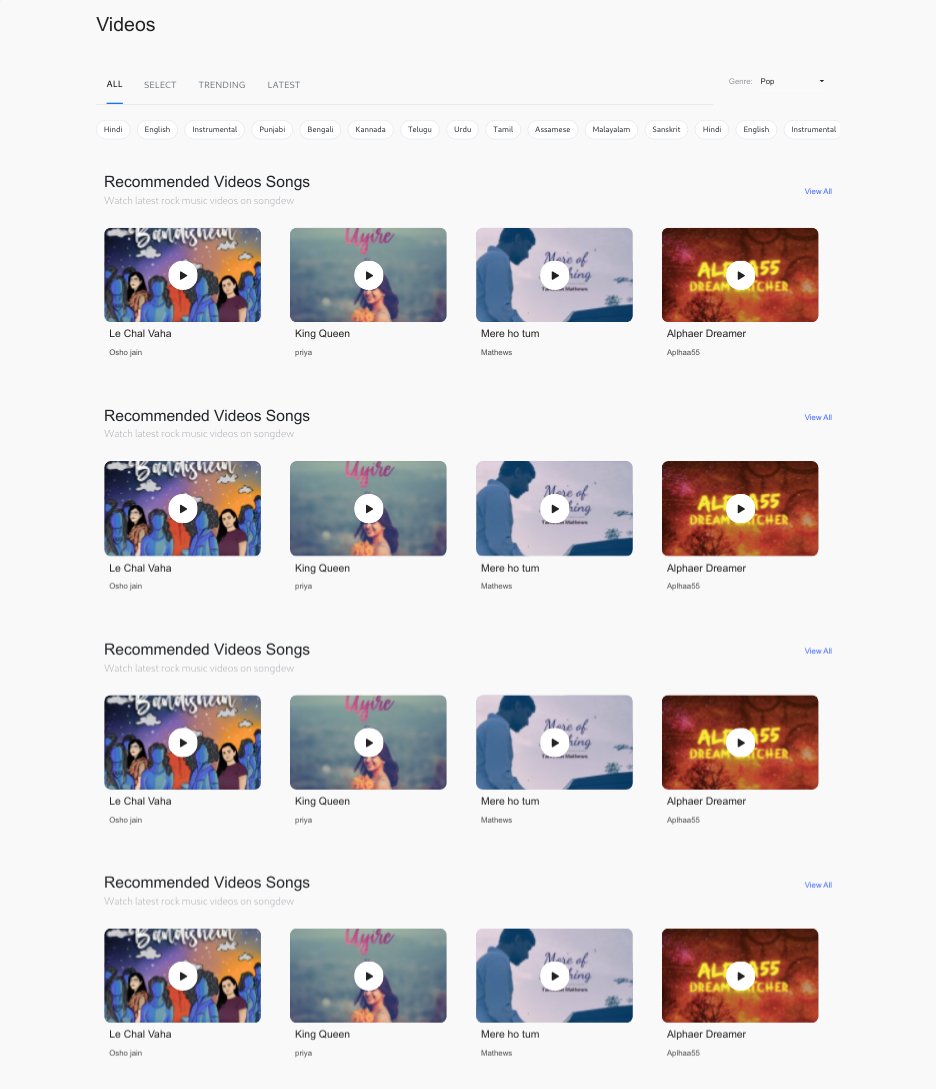
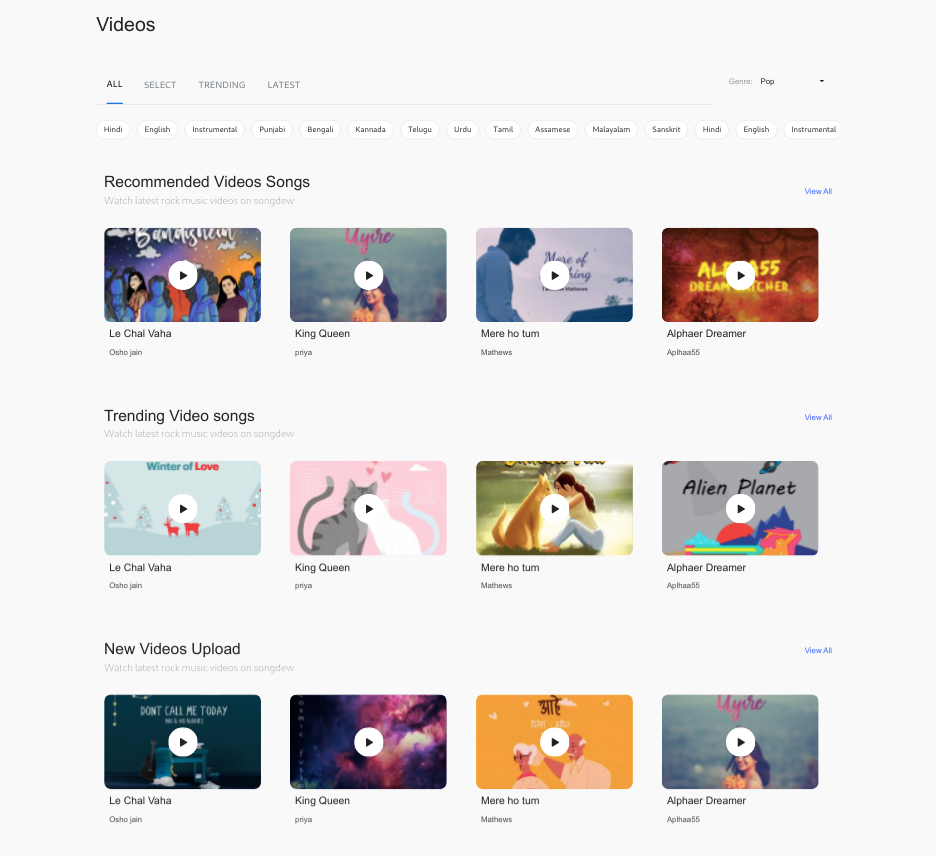
images

diff --git a/Task-2/index.html b/Task-2/index.html
@@ -211,7 +211,7 @@
 
           <div class="row mb-lg-4 mb-md-3">
             <div class="col-8 col-xs-12">
-              <h4 class="block-title mb-0 mt-4">Recommended Videos Songs</h4>
+              <h4 class="block-title mb-0 mt-4">Trending Video songs</h4>
               <h6 class="block-subtitle">Watch latest rock music videos on songdew</h6>
             </div>
             <div class="col-4 d-flex justify-content-end v-box1">
@@ -223,7 +223,7 @@
 
             <div class="col-12 col-lg-3 col-md-6 col-sm-12">
               <div class="card">
-                <img class="card-img-top" src="./images/bg-4.svg" alt="search">
+                <img class="card-img-top" src="./images/bg-8.svg" alt="search">
                 <img class="play-button" src="./images/play.svg" alt="play">
                 <div class="card-body">
                   <h5 class="song-text">Le Chal Vaha </h5>
@@ -234,7 +234,7 @@
 
             <div class="col-12 col-lg-3 col-md-6 col-sm-12">
               <div class="card">
-                <img class="img1 card-img-top" src="./images/bg-3.svg" alt="search">
+                <img class="img1 card-img-top" src="./images/bg-9.svg" alt="search">
                 <img class="play-button" src="./images/play.svg" alt="play">
                 <div class="card-body  ">
                   <h5 class="song-text">King Queen </h5>
@@ -245,7 +245,7 @@
 
             <div class="col-12 col-lg-3 col-md-6 col-sm-12">
               <div class="card">
-                <img class="img1 card-img-top" src="./images/bg-6.svg" alt="search">
+                <img class="img1 card-img-top" src="./images/bg-10.svg" alt="search">
                 <img class="play-button" src="./images/play.svg" alt="play">
                 <div class="card-body  ">
                   <h5 class="song-text">Mere ho tum </h5>
@@ -256,7 +256,7 @@
 
             <div class="col-12 col-lg-3 col-md-6 col-sm-12">
               <div class="card">
-                <img class="img1 card-img-top" src="./images/bg-7.svg" alt="search">
+                <img class="img1 card-img-top" src="./images/bg-11.svg" alt="search">
                 <img class="play-button" src="./images/play.svg" alt="play">
                 <div class="card-body  ">
                   <h5 class="song-text">Alphaer Dreamer </h5>
@@ -277,7 +277,7 @@
 
           <div class="row mb-lg-4 mb-md-3">
             <div class="col-8 col-xs-12">
-              <h4 class="block-title mb-0 mt-4">Recommended Videos Songs</h4>
+              <h4 class="block-title mb-0 mt-4">New Videos Upload</h4>
               <h6 class="block-subtitle">Watch latest rock music videos on songdew</h6>
             </div>
             <div class="col-4 d-flex justify-content-end v-box1">
@@ -289,7 +289,7 @@
 
             <div class="col-12 col-lg-3 col-md-6 col-sm-12">
               <div class="card">
-                <img class="card-img-top" src="./images/bg-4.svg" alt="search">
+                <img class="card-img-top" src="./images/bg.svg" alt="search">
                 <img class="play-button" src="./images/play.svg" alt="play">
                 <div class="card-body">
                   <h5 class="song-text">Le Chal Vaha </h5>
@@ -300,7 +300,7 @@
 
             <div class="col-12 col-lg-3 col-md-6 col-sm-12">
               <div class="card">
-                <img class="img1 card-img-top" src="./images/bg-3.svg" alt="search">
+                <img class="img1 card-img-top" src="./images/bg-1.svg" alt="search">
                 <img class="play-button" src="./images/play.svg" alt="play">
                 <div class="card-body  ">
                   <h5 class="song-text">King Queen </h5>
@@ -311,55 +311,11 @@
 
             <div class="col-12 col-lg-3 col-md-6 col-sm-12">
               <div class="card">
-                <img class="img1 card-img-top" src="./images/bg-6.svg" alt="search">
+                <img class="img1 card-img-top" src="./images/bg-2.svg" alt="search">
                 <img class="play-button" src="./images/play.svg" alt="play">
                 <div class="card-body  ">
                   <h5 class="song-text">Mere ho tum </h5>
                   <p class="singer-text">Mathews</p>
-                </div>
-              </div>
-            </div>
-
-            <div class="col-12 col-lg-3 col-md-6 col-sm-12">
-              <div class="card">
-                <img class="img1 card-img-top" src="./images/bg-7.svg" alt="search">
-                <img class="play-button" src="./images/play.svg" alt="play">
-                <div class="card-body  ">
-                  <h5 class="song-text">Alphaer Dreamer </h5>
-                  <p class="singer-text">Aplhaa55</p>
-                </div>
-              </div>
-            </div>
-
-            <div class="col v-box2">
-              <button class="view">View All</button>
-            </div>
-          </div>
-
-          <hr class="view">
-        </div>
-
-        <div class="container-fluid my-lg-4 my-md-4">
-
-          <div class="row mb-lg-4 mb-md-3">
-            <div class="col-8 col-xs-12">
-              <h4 class="block-title mb-0 mt-4">Recommended Videos Songs</h4>
-              <h6 class="block-subtitle">Watch latest rock music videos on songdew</h6>
-            </div>
-            <div class="col-4 d-flex justify-content-end v-box1">
-              <button class="view">View All</button>
-            </div>
-          </div>
-
-          <div class="row">
-
-            <div class="col-12 col-lg-3 col-md-6 col-sm-12">
-              <div class="card">
-                <img class="card-img-top" src="./images/bg-4.svg" alt="search">
-                <img class="play-button" src="./images/play.svg" alt="play">
-                <div class="card-body">
-                  <h5 class="song-text">Le Chal Vaha </h5>
-                  <p class="singer-text">Osho jain </p>
                 </div>
               </div>
             </div>
@@ -367,28 +323,6 @@
             <div class="col-12 col-lg-3 col-md-6 col-sm-12">
               <div class="card">
                 <img class="img1 card-img-top" src="./images/bg-3.svg" alt="search">
-                <img class="play-button" src="./images/play.svg" alt="play">
-                <div class="card-body  ">
-                  <h5 class="song-text">King Queen </h5>
-                  <p class="singer-text">priya</p>
-                </div>
-              </div>
-            </div>
-
-            <div class="col-12 col-lg-3 col-md-6 col-sm-12">
-              <div class="card">
-                <img class="img1 card-img-top" src="./images/bg-6.svg" alt="search">
-                <img class="play-button" src="./images/play.svg" alt="play">
-                <div class="card-body  ">
-                  <h5 class="song-text">Mere ho tum </h5>
-                  <p class="singer-text">Mathews</p>
-                </div>
-              </div>
-            </div>
-
-            <div class="col-12 col-lg-3 col-md-6 col-sm-12">
-              <div class="card">
-                <img class="img1 card-img-top" src="./images/bg-7.svg" alt="search">
                 <img class="play-button" src="./images/play.svg" alt="play">
                 <div class="card-body  ">
                   <h5 class="song-text">Alphaer Dreamer </h5>
